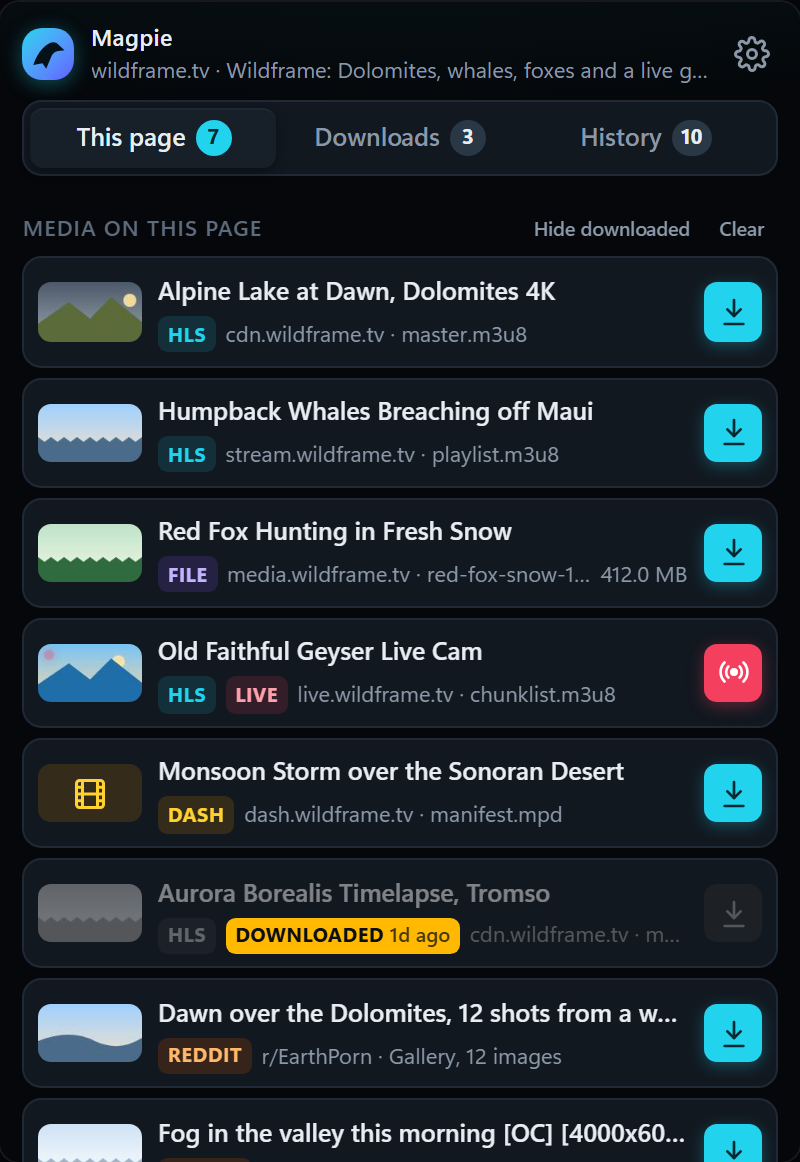
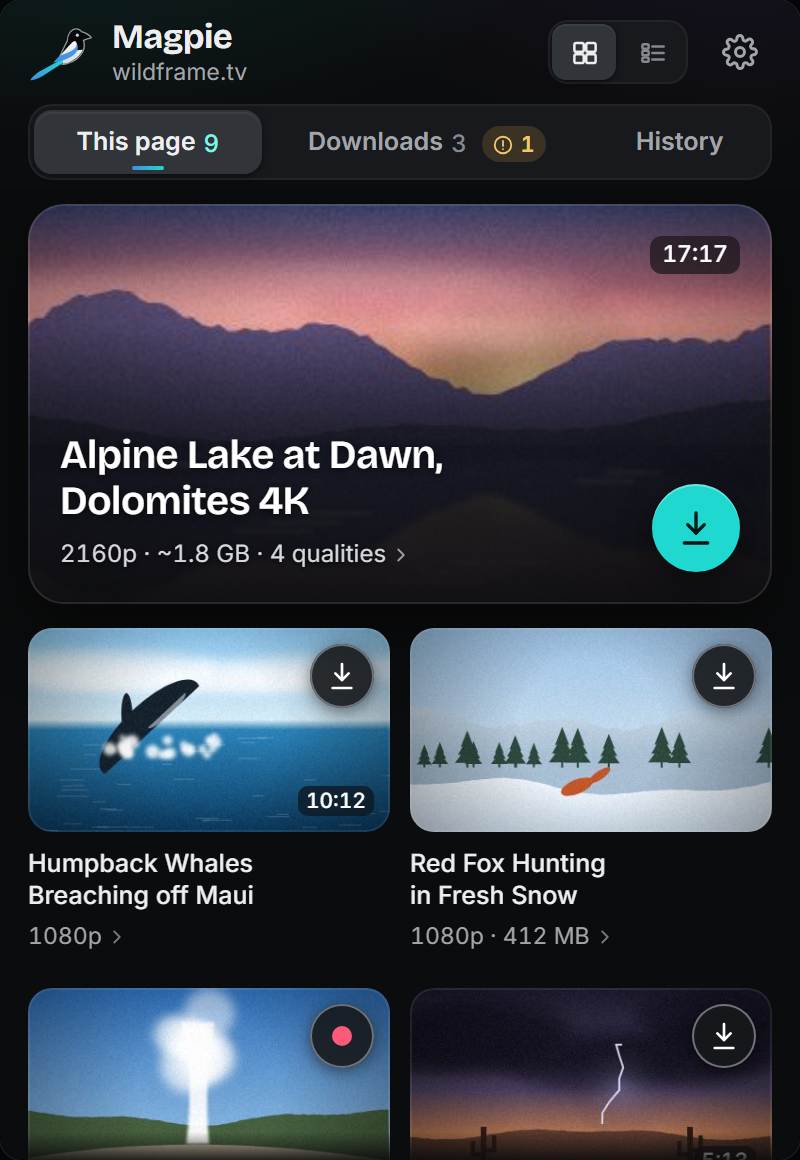
Website: copy and screenshots for the compact list, the quality choice and the Downloads order
Three feature cards (cards or a compact list, the quality you want,
Downloads in order) and the "already have" card rewritten for 0.8.0's
Saved group. screenshots.mjs matched "PROTECTED" while 0.8.0 writes
"Protected", so it waited out its 30 s timeout; it now matches any case.

diff --git a/website/site/index.html b/website/site/index.html
@@ -194,7 +194,10 @@
       <div><div class="ico"><svg viewBox="0 0 24 24" fill="none" stroke="currentColor" stroke-width="2" stroke-linecap="round" stroke-linejoin="round"><rect x="3" y="5" width="18" height="14" rx="2"/><path d="M3 15l5-5 4 4 3-3 6 6"/></svg></div><h3>A frame of every stream</h3><p>The picture comes from the stream itself, not the page: one segment, decoded in your browser, kept as a few kilobytes. Off in Settings if you prefer.</p></div>
       <div><div class="ico"><svg viewBox="0 0 24 24" fill="none" stroke="currentColor" stroke-width="2" stroke-linecap="round" stroke-linejoin="round"><path d="M4 6h16M4 12h10M4 18h6"/></svg></div><h3>A queue that fits your connection</h3><p>Parallel downloads is a setting, two by default. Extra clicks wait in line and start on their own as slots free up.</p></div>
       <div><div class="ico live"><svg viewBox="0 0 24 24" fill="none" stroke="currentColor" stroke-width="2" stroke-linecap="round"><circle cx="12" cy="12" r="2.5"/><path d="M7.8 7.8a6 6 0 000 8.4M16.2 7.8a6 6 0 010 8.4M5 5a10 10 0 000 14M19 5a10 10 0 010 14"/></svg></div><h3>Live recording</h3><p>Live streams and webcams get a record button. The recording runs until you press Stop or the stream ends. On Twitch the ad breaks are left out, and the video and audio stay in step across them.</p></div>
-      <div><div class="ico"><svg viewBox="0 0 24 24" fill="none" stroke="currentColor" stroke-width="2" stroke-linecap="round" stroke-linejoin="round"><path d="M20 6L9 17l-5-5"/></svg></div><h3>Knows what you already have</h3><p>Media in your history is grayed out on This page with a DOWNLOADED tag that says how long ago, and its sheet names the file you saved. Hide it all with one click if you prefer. Media that is downloading goes gray, and clicking it shows the job instead of starting it twice.</p></div>
+      <div><div class="ico"><svg viewBox="0 0 24 24" fill="none" stroke="currentColor" stroke-width="2" stroke-linecap="round" stroke-linejoin="round"><path d="M20 6L9 17l-5-5"/></svg></div><h3>Knows what you already have</h3><p>Media in your history moves to an Already downloaded group on This page, tagged Saved with when, and its sheet names the file you saved. Hide the group with one click. Media that is downloading shows its progress, and clicking it opens the job instead of starting it twice.</p></div>
+      <div><div class="ico"><svg viewBox="0 0 24 24" fill="none" stroke="currentColor" stroke-width="2" stroke-linecap="round" stroke-linejoin="round"><rect x="3.5" y="5" width="5" height="3.5" rx="1"/><rect x="3.5" y="10.25" width="5" height="3.5" rx="1"/><rect x="3.5" y="15.5" width="5" height="3.5" rx="1"/><path d="M11.5 6.75h9M11.5 12h9M11.5 17.25h9"/></svg></div><h3>Cards or a compact list</h3><p>One switch in the header changes every tab. Cards show each frame large. The list puts each video on one line with a small frame, so a busy page fits on one screen. Magpie remembers your pick.</p></div>
+      <div><div class="ico"><svg viewBox="0 0 24 24" fill="none" stroke="currentColor" stroke-width="2" stroke-linecap="round" stroke-linejoin="round"><path d="M12 3v12"/><path d="m7 10 5 5 5-5"/><path d="M5 21h14"/></svg></div><h3>The quality you want</h3><p>When a video comes in more than one quality, the download arrow asks which, with the highest already picked. Turn on Always download the highest quality in Settings and it starts at once.</p></div>
+      <div><div class="ico"><svg viewBox="0 0 24 24" fill="none" stroke="currentColor" stroke-width="2" stroke-linecap="round" stroke-linejoin="round"><path d="M4 6h16M4 12h16M4 18h10"/></svg></div><h3>Downloads in order</h3><p>What is running comes first, then what waits in line, then what failed. A failure says why in plain words and offers Retry or the page to play it again.</p></div>
       <div><div class="ico"><svg viewBox="0 0 24 24" fill="none" stroke="currentColor" stroke-width="2" stroke-linecap="round" stroke-linejoin="round"><rect x="4" y="10" width="16" height="11" rx="2"/><path d="M8 10V7a4 4 0 018 0v3"/></svg></div><h3>Private windows stay private</h3><p>Downloads from a private window are forgotten when the last private window closes, unless you choose to keep them.</p></div>
       <div><div class="ico"><svg viewBox="0 0 24 24" fill="none" stroke="currentColor" stroke-width="2" stroke-linecap="round" stroke-linejoin="round"><path d="M16 11V7a4 4 0 00-8 0v4M5 11h14l-1 10H6z"/></svg></div><h3>Your session rides along</h3><p>Sites that check cookies or the Referer work, because the segments are fetched by your browser with your login, from the site already serving them.</p></div>
     </div>
